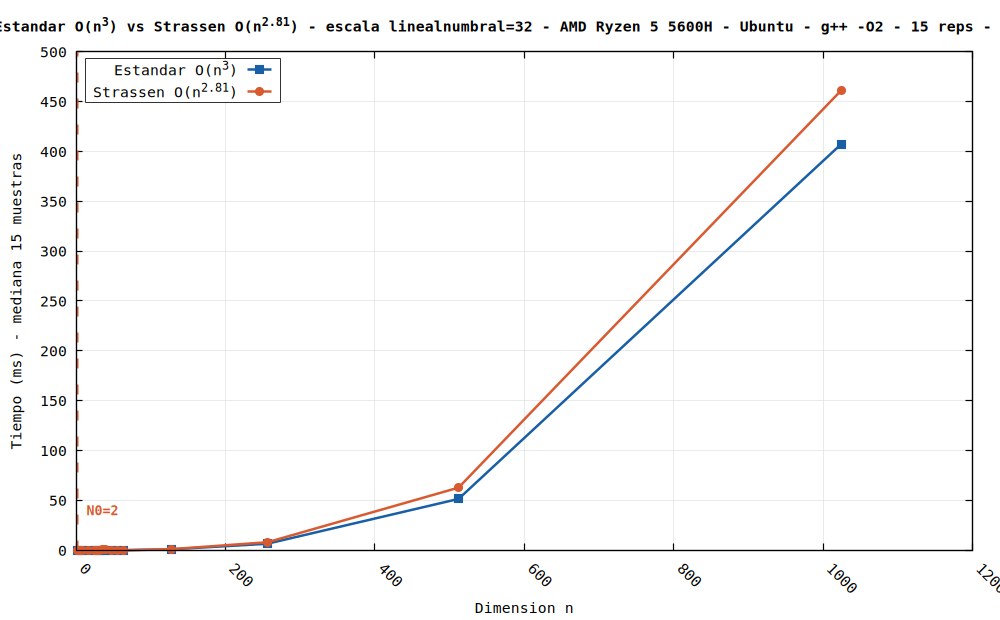
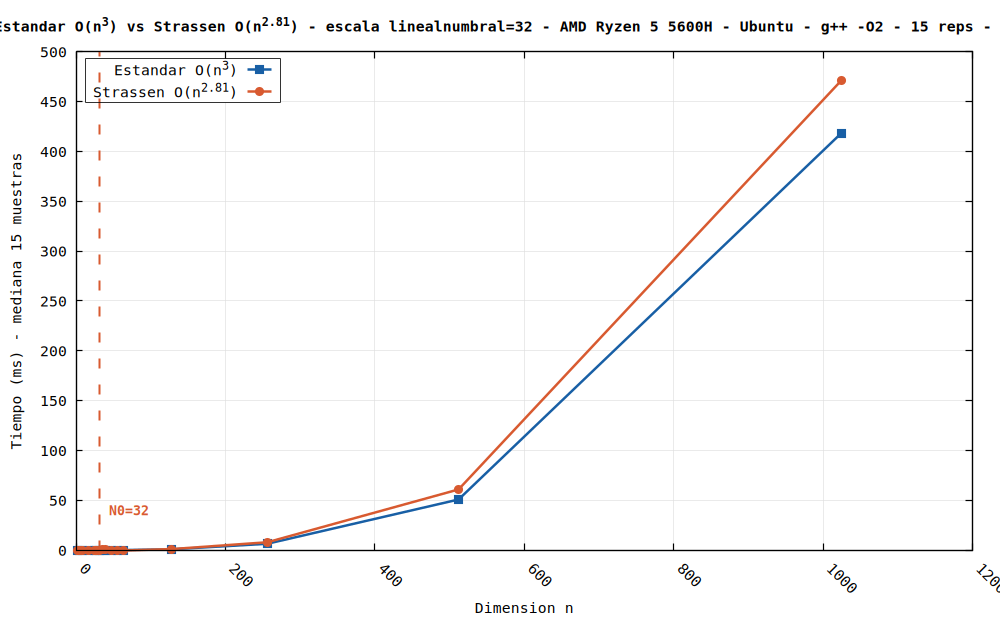
fix: validacion correctitud, bit-shift proximaPotenciaDe2, remove unused include, update figures

diff --git a/main.cpp b/main.cpp
@@ -12,14 +12,12 @@
 using namespace std;
 namespace fs = std::filesystem;
 
-// Tipos
 struct ResultadoN {
     int    n;
     double medianaEstandar, mediaEstandar;
     double medianaStrassen, mediaStrassen;
 };
 
-// Estadísticos
 static double mediana(vector<double> v) {
     sort(v.begin(), v.end());
     int n = static_cast<int>(v.size());
@@ -30,13 +28,11 @@ static double media(const vector<double>& v) {
     return accumulate(v.begin(), v.end(), 0.0) / v.size();
 }
 
-// Medición 
-
 static ResultadoN ejecutarBenchmark(int n, int reps, int umbral, FILE* csv) {
     int  nPad    = proximaPotenciaDe2(n);
     bool padding = (nPad != n);
 
-    // Warmup: descarta la primera ejecucion para estabilizar cache y branch predictor
+    // Warmup: estabiliza cache y branch predictor antes de medir
     {
         Matrix A  = generarMatriz(n, 0), B = generarMatriz(n, 1);
         Matrix Ap = padding ? aplicarPadding(A, n, nPad) : A;
@@ -76,8 +72,6 @@ static ResultadoN ejecutarBenchmark(int n, int reps, int umbral, FILE* csv) {
     return { n, mediana(tE), media(tE), mediana(tS), media(tS) };
 }
 
-// Salida 
-
 static void imprimirTabla(const vector<ResultadoN>& res, int umbral) {
     static const char SEP[] =
         "--------------------------------------------------------------------------\n";
@@ -108,18 +102,43 @@ static void escribirCSVMedianas(const vector<ResultadoN>& res, const char* path)
     fclose(f);
 }
 
+static void validarCorrectitud(int umbral) {
+    const int casos[] = {4, 8, 16, 32};
+    for (int n : casos) {
+        int  nPad = proximaPotenciaDe2(n);
+        Matrix A  = generarMatriz(n, 42);
+        Matrix B  = generarMatriz(n, 84);
+        Matrix Ap = aplicarPadding(A, n, nPad);
+        Matrix Bp = aplicarPadding(B, n, nPad);
+
+        Matrix ref = multiplicarEstandar(A, B, n);
+        Matrix res = multiplicarStrassen(Ap, Bp, nPad, umbral);
+
+        // Recortar resultado de Strassen al tamaño original antes de comparar
+        Matrix resCrop(n, std::vector<double>(n));
+        for (int i = 0; i < n; ++i)
+            for (int j = 0; j < n; ++j)
+                resCrop[i][j] = res[i][j];
+
+        if (!sonIguales(ref, resCrop, n)) {
+            fprintf(stderr, "  [ERROR] Strassen produce resultado incorrecto para n=%d\n", n);
+            exit(1);
+        }
+    }
+    printf("  Validacion de correctitud: OK (n = 4, 8, 16, 32)\n\n");
+}
+
 static int detectarN0(const vector<ResultadoN>& res) {
-    // Busca el primer n donde Strassen supera consistentemente al estandar
+    // Filtra n con tiempos sub-microsegundo donde el cronometro no tiene resolucion confiable
     for (const auto& r : res)
-        if (r.medianaStrassen < r.medianaEstandar) return r.n;
+        if (r.medianaEstandar > 0.01 && r.medianaStrassen < r.medianaEstandar)
+            return r.n;
     return -1;
 }
 
-// Gnuplot
-
 static void graficar(const char* csvMedianas, const char* outDir,
                      int n0, int umbral, double totalSeg) {
-    char lineal[256], loglog[256], marcaN0[512], script[4096];
+    char lineal[256], loglog[256], marcaN0[512], script[8192];
 
     snprintf(lineal, sizeof(lineal), "%s/comparacion_lineal.png", outDir);
     snprintf(loglog, sizeof(loglog), "%s/comparacion_loglog.png", outDir);
@@ -144,7 +163,6 @@ static void graficar(const char* csvMedianas, const char* outDir,
         "set key top left box lw 0.8 samplen 2 spacing 1.3\n"
         "set pointsize 1.1\n"
 
-        // Escala lineal
         "set output '%s'\n"
         "set title 'Estandar O(n^3) vs Strassen O(n^{2.81}) - escala lineal\\n"
             "umbral=%d - AMD Ryzen 5 5600H - Ubuntu - g++ -O2 - 15 reps - %.2fs' "
@@ -159,7 +177,6 @@ static void graficar(const char* csvMedianas, const char* outDir,
             "title 'Strassen O(n^{2.81})'\n"
         "unset arrow\nunset label\n"
 
-        // Escala log-log
         "set output '%s'\n"
         "set title 'Estandar vs Strassen - escala log-log\\n"
             "umbral=%d - AMD Ryzen 5 5600H - Ubuntu - g++ -O2 - 15 reps - %.2fs' "
@@ -209,6 +226,7 @@ int main() {
 
     auto t0Total = chrono::high_resolution_clock::now();
 
+    validarCorrectitud(UMBRAL);
     for (int n : dimensiones) {
         printf("  n = %5d  ...  ", n);
         fflush(stdout);

diff --git a/matriz.cpp b/matriz.cpp
@@ -34,7 +34,9 @@ void pegarSubmatriz(const Matrix& origen, Matrix& destino, int filaInicio, int c
 }
 
 int proximaPotenciaDe2(int n) {
-    return static_cast<int>(pow(2.0, ceil(log2(static_cast<double>(n)))));
+    int p = 1;
+    while (p < n) p <<= 1;
+    return p;
 }
 
 Matrix aplicarPadding(const Matrix& M, int n, int nNuevo) {

diff --git a/matriz.h b/matriz.h
@@ -2,7 +2,6 @@
 #define MATRIZ_H
 
 #include <vector>
-#include <string>
 
 using Matrix = std::vector<std::vector<double>>;
 
